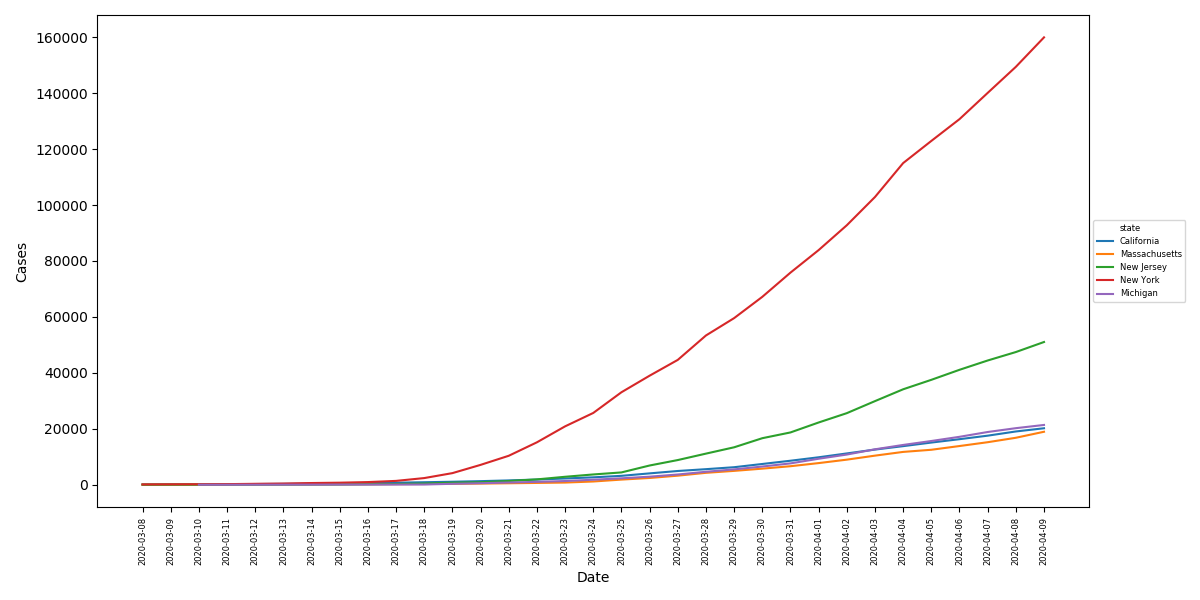
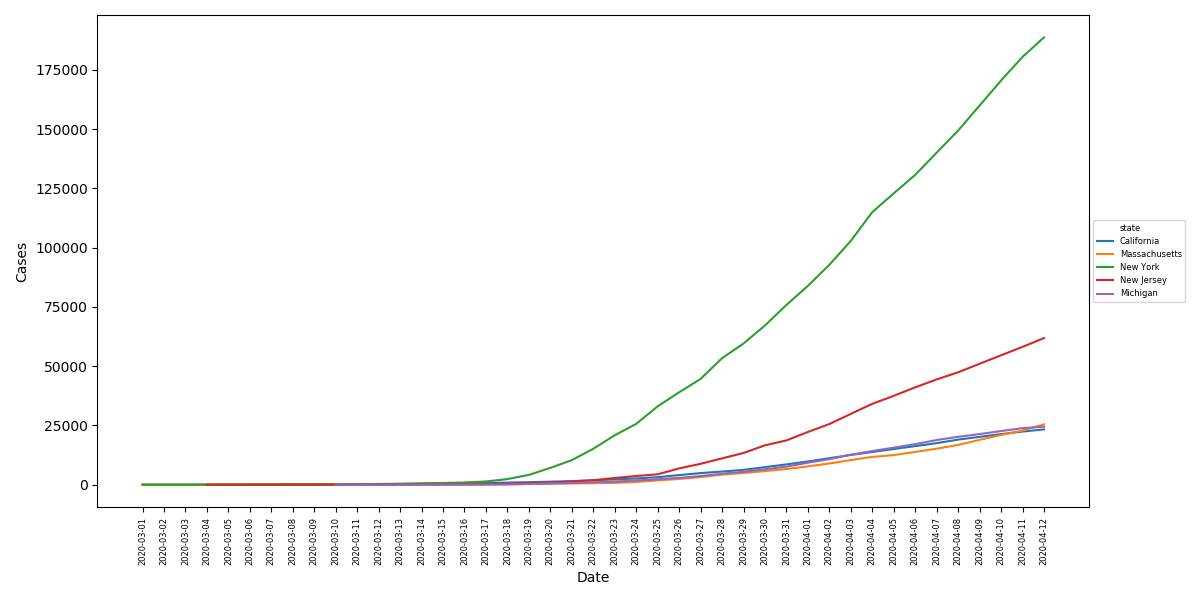
New data.

diff --git a/README.md b/README.md
@@ -4,8 +4,8 @@ In this forked repo from the New York Times, I've written a module in Python wit
 Cases Per County in Wisconsin Since March 8, 2020  
 ![Case Counts per County in Wisconsin](https://github.com/dgellerup/covid-19-data/blob/master/plots/wisconsin.gif)  
 
-Case Counts for 5 Most-Affected States From March 1, 2020 to April 9, 2020
-![Case Counts for 5 Most-Affected States From March 1, 2020 to April 9, 2020](https://github.com/dgellerup/covid-19-data/blob/master/plots/plot.png)
+Case Counts for 5 Most-Affected States From March 1, 2020 to April 12, 2020
+![Case Counts for 5 Most-Affected States From March 1, 2020 to April 12, 2020](https://github.com/dgellerup/covid-19-data/blob/master/plots/plot.png)
 
 # Coronavirus (Covid-19) Data in the United States
 
